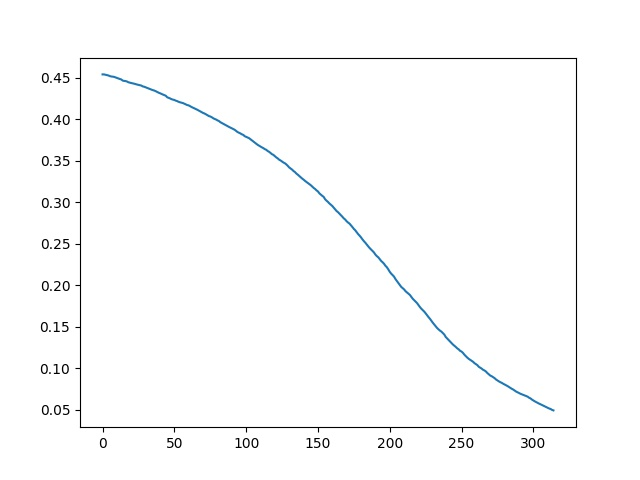
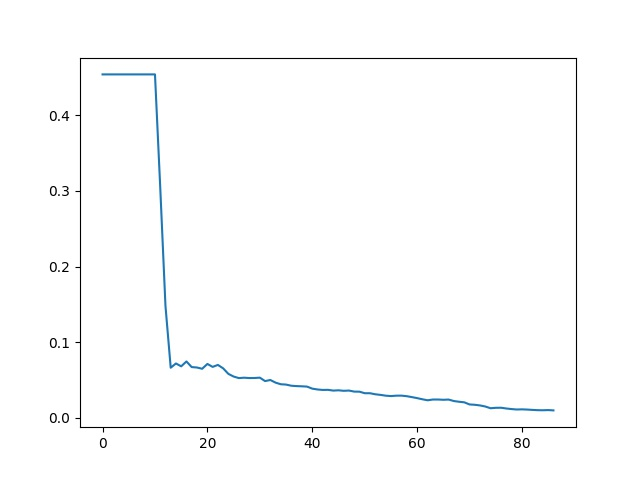
Update code, prep for lev

diff --git a/ML/code/softmax_model_test.py b/ML/code/softmax_model_test.py
@@ -4,75 +4,75 @@ import utils
 import matplotlib.pyplot as plt
 import pdb
 
-# #datatest = utils.load_dataset("mnist_test", npy=True)
-# datatest = utils.load_dataset("mnist/mnist_test", npy=True)
-# Xtest, ytest = datatest['X'], datatest['y']
-#
-# #datatrain = utils.load_dataset("mnist_train", npy=True)
-# datatrain = utils.load_dataset("mnist/mnist_train", npy=True)
-# XBin, yBin = datatrain['X'], datatrain['y']
+datatest = utils.load_dataset("mnist/mnist_test", npy=True)
+Xtest, ytest = datatest['X'], datatest['y']
 
-class SoftMaxModelTest:
-    def __init__(self, dataset, numClasses, numFeatures):
-        self.datatest = utils.load_dataset(dataset+'/'+dataset+"_test", npy=True)
-        self.datatrain = utils.load_dataset(dataset+'/'+dataset+"_train", npy=True)
-        self.Xtest, self.ytest = self.datatest['X'], self.datatest['y']
-        self.XBin, self.yBin = self.datatrain['X'], self.datatrain['y']
-        self.num_classes = numClasses
-        self.num_features = numFeatures
+datatrain = utils.load_dataset("mnist/mnist_train", npy=True)
+XBin, yBin = datatrain['X'], datatrain['y']
 
-    def train_error(self, ww):
+num_classes = 0
+num_features = 0
 
-        # hardcoded for MNIST
-        W = np.reshape(ww, (self.num_classes, self.num_features))
-        #W = np.reshape(ww, (10, 41))
-        yhat = np.argmax(np.dot(self.XBin, W.T), axis=1)
-        error = np.mean(yhat != self.yBin)
-        return error
+def init(kk, dd):
+        
+    global num_classes
+    num_classes = kk
+
+    global num_features
+    num_features = dd
 
 
-    def test_error(self, ww):
-        W = np.reshape(ww, (self.num_classes, self.num_features))
-        #W = np.reshape(ww, (23, 41))
-        yhat = np.argmax(np.dot(self.Xtest, W.T), axis=1)
-        error = np.mean(yhat != self.ytest)
-        return error
+def train_error(ww):
+   
+    # hardcoded for MNIST
+    W = np.reshape(ww, (num_classes, num_features))
+    #W = np.reshape(ww, (10, 41))
+    yhat = np.argmax(np.dot(XBin, W.T), axis=1)
+    error = np.mean(yhat != yBin)
+    return error
+
+def test_error(ww):
+    W = np.reshape(ww, (num_classes, num_features))
+    #W = np.reshape(ww, (23, 41))
+    yhat = np.argmax(np.dot(Xtest, W.T), axis=1)
+    error = np.mean(yhat != ytest)
+    return error
 
 
-    def kappa(self, ww, delta):
+def kappa(ww, delta):
 
-        ww = np.array(ww)
-        yhat = np.argmax(np.dot(self.Xtest, ww), axis=1)
+    ww = np.array(ww)
+    yhat = np.argmax(np.dot(Xtest, ww), axis=1)
 
-        ww2 = np.array(ww + delta)
-        yhat2 = np.argmax(np.dot(self.Xtest, ww2), axis=1)
+    ww2 = np.array(ww + delta)
+    yhat2 = np.argmax(np.dot(Xtest, ww2), axis=1)
 
-        P_A = np.mean(yhat == yhat2)
-        P_E = 0.5
+    P_A = np.mean(yhat == yhat2)
+    P_E = 0.5
 
-        return (P_A - P_E) / (1 - P_E)
-
-
-    def roni(self, ww, delta):
-
-        ww = np.array(ww)
-        yhat = np.argmax(np.dot(self.Xtest, ww), axis=1)
-
-        ww2 = np.array(ww + delta)
-        yhat2 = np.argmax(np.dot(self.Xtest, ww2), axis=1)
-
-        g_err = np.mean(yhat != self.ytest)
-        new_err = np.mean(yhat2 != self.ytest)
-
-        # How much does delta improve the validation error?
-        return g_err - new_err
+    return (P_A - P_E) / (1 - P_E)
 
 
-    def plot(self, data):
+def roni(ww, delta):
 
-        data = np.loadtxt("lossflush.csv", delimiter=',')
-        fig = plt.figure()
-        plt.plot(data)
-        fig.savefig("loss.jpeg")
+    ww = np.array(ww)
+    yhat = np.argmax(np.dot(Xtest, ww), axis=1)
 
-        return 1
+    ww2 = np.array(ww + delta)
+    yhat2 = np.argmax(np.dot(Xtest, ww2), axis=1)
+
+    g_err = np.mean(yhat != ytest)
+    new_err = np.mean(yhat2 != ytest)
+
+    # How much does delta improve the validation error?
+    return g_err - new_err
+
+
+def plot(data):
+
+    data = np.loadtxt("lossflush.csv", delimiter=',')
+    fig = plt.figure()
+    plt.plot(data)
+    fig.savefig("loss.jpeg")
+
+    return 1

diff --git a/DistSys/torserver.go b/DistSys/torserver.go
@@ -88,7 +88,7 @@ var (
 	theValidator	 	Validator
 
     // Inverse rate of multicast. Set to > 1 if you want to disable
-	MULTICAST_RATE		float64 = 0.9
+	MULTICAST_RATE		float64 = 1.1
 	
 	// Kick a client out after 2% of RONI
 	THRESHOLD			float64 = -0.05
@@ -105,6 +105,7 @@ var (
 	pyRoniFunc    *python.PyObject
 	pyPlotFunc    *python.PyObject
     pyAggInitFunc *python.PyObject
+    pyTestInitFunc *python.PyObject
 
 	pyAggModule   *python.PyObject
 	pyKrumFunc    *python.PyObject
@@ -220,6 +221,7 @@ func pyInit() {
 	pyKrumFunc = pyAggModule.GetAttrString("krum")
     pyAvgFunc = pyAggModule.GetAttrString("average")
     
+    pyTestInitFunc = pyTestModule.GetAttrString("init")
 	pyTrainFunc = pyTestModule.GetAttrString("train_error")
 	pyTestFunc = pyTestModule.GetAttrString("test_error")
 	pyRoniFunc = pyTestModule.GetAttrString("roni")
@@ -238,10 +240,10 @@ func main() {
 	myPorts = make(map[int]bool)
 
 	// Measured in ms.
-	samplingRate = 5000
+	samplingRate = 1000
 
 	// What loss until you claim convergence?
-	convergThreshold = 0.005
+	convergThreshold = 0.01
 
 	// Make ports 6000 to 6010 available
 	for i := 6000; i <= 6010; i++ {
@@ -396,7 +398,7 @@ func gradientWorker(nodeId string,
 	ln, err := net.ListenTCP("tcp", myaddr)
 	checkError(err)
 
-    // 4096 for credit is ok
+    // 2048 for credit is ok
     // 131072 for MNIST
 	buf := make([]byte, 2048)
 	outBuf := make([]byte, 2048)
@@ -515,6 +517,9 @@ func startModel(numFeatures int, minClients int) bool {
 	theModel = newModel
 	mutex.Unlock()
 	fmt.Printf("Started new model! \n")
+
+    pyTestInitFunc.CallFunction(python.PyInt_FromLong(10), 
+        python.PyInt_FromLong(784))
 
     pyAggInitFunc.CallFunction(python.PyInt_FromLong(minClients), 
         python.PyInt_FromLong(numFeatures))

diff --git a/ML/data/mnist/parse_mnist.py b/ML/data/mnist/parse_mnist.py
@@ -56,6 +56,47 @@ def main():
 
     pdb.set_trace()
 
+def slice_uniform():
+
+    mndata = MNIST('.')
+
+    images, labels = mndata.load_training()
+    images_test, labels_test = mndata.load_testing()
+
+    n = len(images)
+    d = len(images[0])
+    t = len(images_test)
+
+    Xtrain = np.zeros((n, d))
+    Xtest = np.zeros((t, d))
+
+    ytrain = np.asarray(labels)
+    ytest = np.asarray(labels_test)
+
+    for i in range(n):
+        Xtrain[i, :] = np.asarray(images[i])
+
+    for q in range(t):
+        Xtest[q, :] = np.asarray(images_test[q])
+
+    # standardize each column
+    print("Standardize columns")
+    Xtrain = Xtrain / 100.0
+    # Xtrain, _, _ = standardize_cols(Xtrain)
+    # Xtest, _, _ = standardize_cols(Xtest)
+
+    for k in range(10):
+
+        randIdx = np.random.permutation(n)[0:5000]
+
+        class_slice = Xtrain[randIdx]
+        data_slice = np.hstack((class_slice, ytrain[randIdx][:, None]))
+
+        print("slice " + str(k) + " is shape " + str(data_slice.shape))
+        np.save("mnist_unif" + str(k), data_slice)
+
+    pdb.set_trace()
+
 
 def slice_for_tm():
 
@@ -127,4 +168,4 @@ def standardize_cols(X, mu=None, sigma=None):
 
 if __name__ == "__main__":
 
-    slice_for_tm()
+    slice_uniform()

diff --git a/DistSys/torclient.go b/DistSys/torclient.go
@@ -226,14 +226,24 @@ func sendGradMessage(logger *govec.GoLog,
 	// prevents the screen from overflowing and freezing
 	time.Sleep(100 * time.Millisecond)		
 
+    retry := 0
+
 	for !completed {
 
 		conn, err := getServerConnection(torDialer, true)
 		if err != nil {
 			fmt.Println("Got a Dial failure, retrying...")
+            retry++
 			time.Sleep(100 * time.Millisecond)		
+
+            if (retry > 4) {
+                os.Exit(1)
+            }
+
 			continue
 		}
+
+        retry = 0
 
 		var msg GradientData
 		if !bootstrapping {

diff --git a/ML/code/logistic_model_test.py b/ML/code/logistic_model_test.py
@@ -9,6 +9,13 @@ Xtest, ytest = data['X'], data['y']
 data = utils.load_dataset("credit/credittrain")
 XBin, yBin = data['X'], data['y']
 
+def init(kk, dd):
+        
+    global num_classes
+    num_classes = kk
+
+    global num_features
+    num_features = dd
 
 def train_error(ww):
     ww = np.array(ww)
